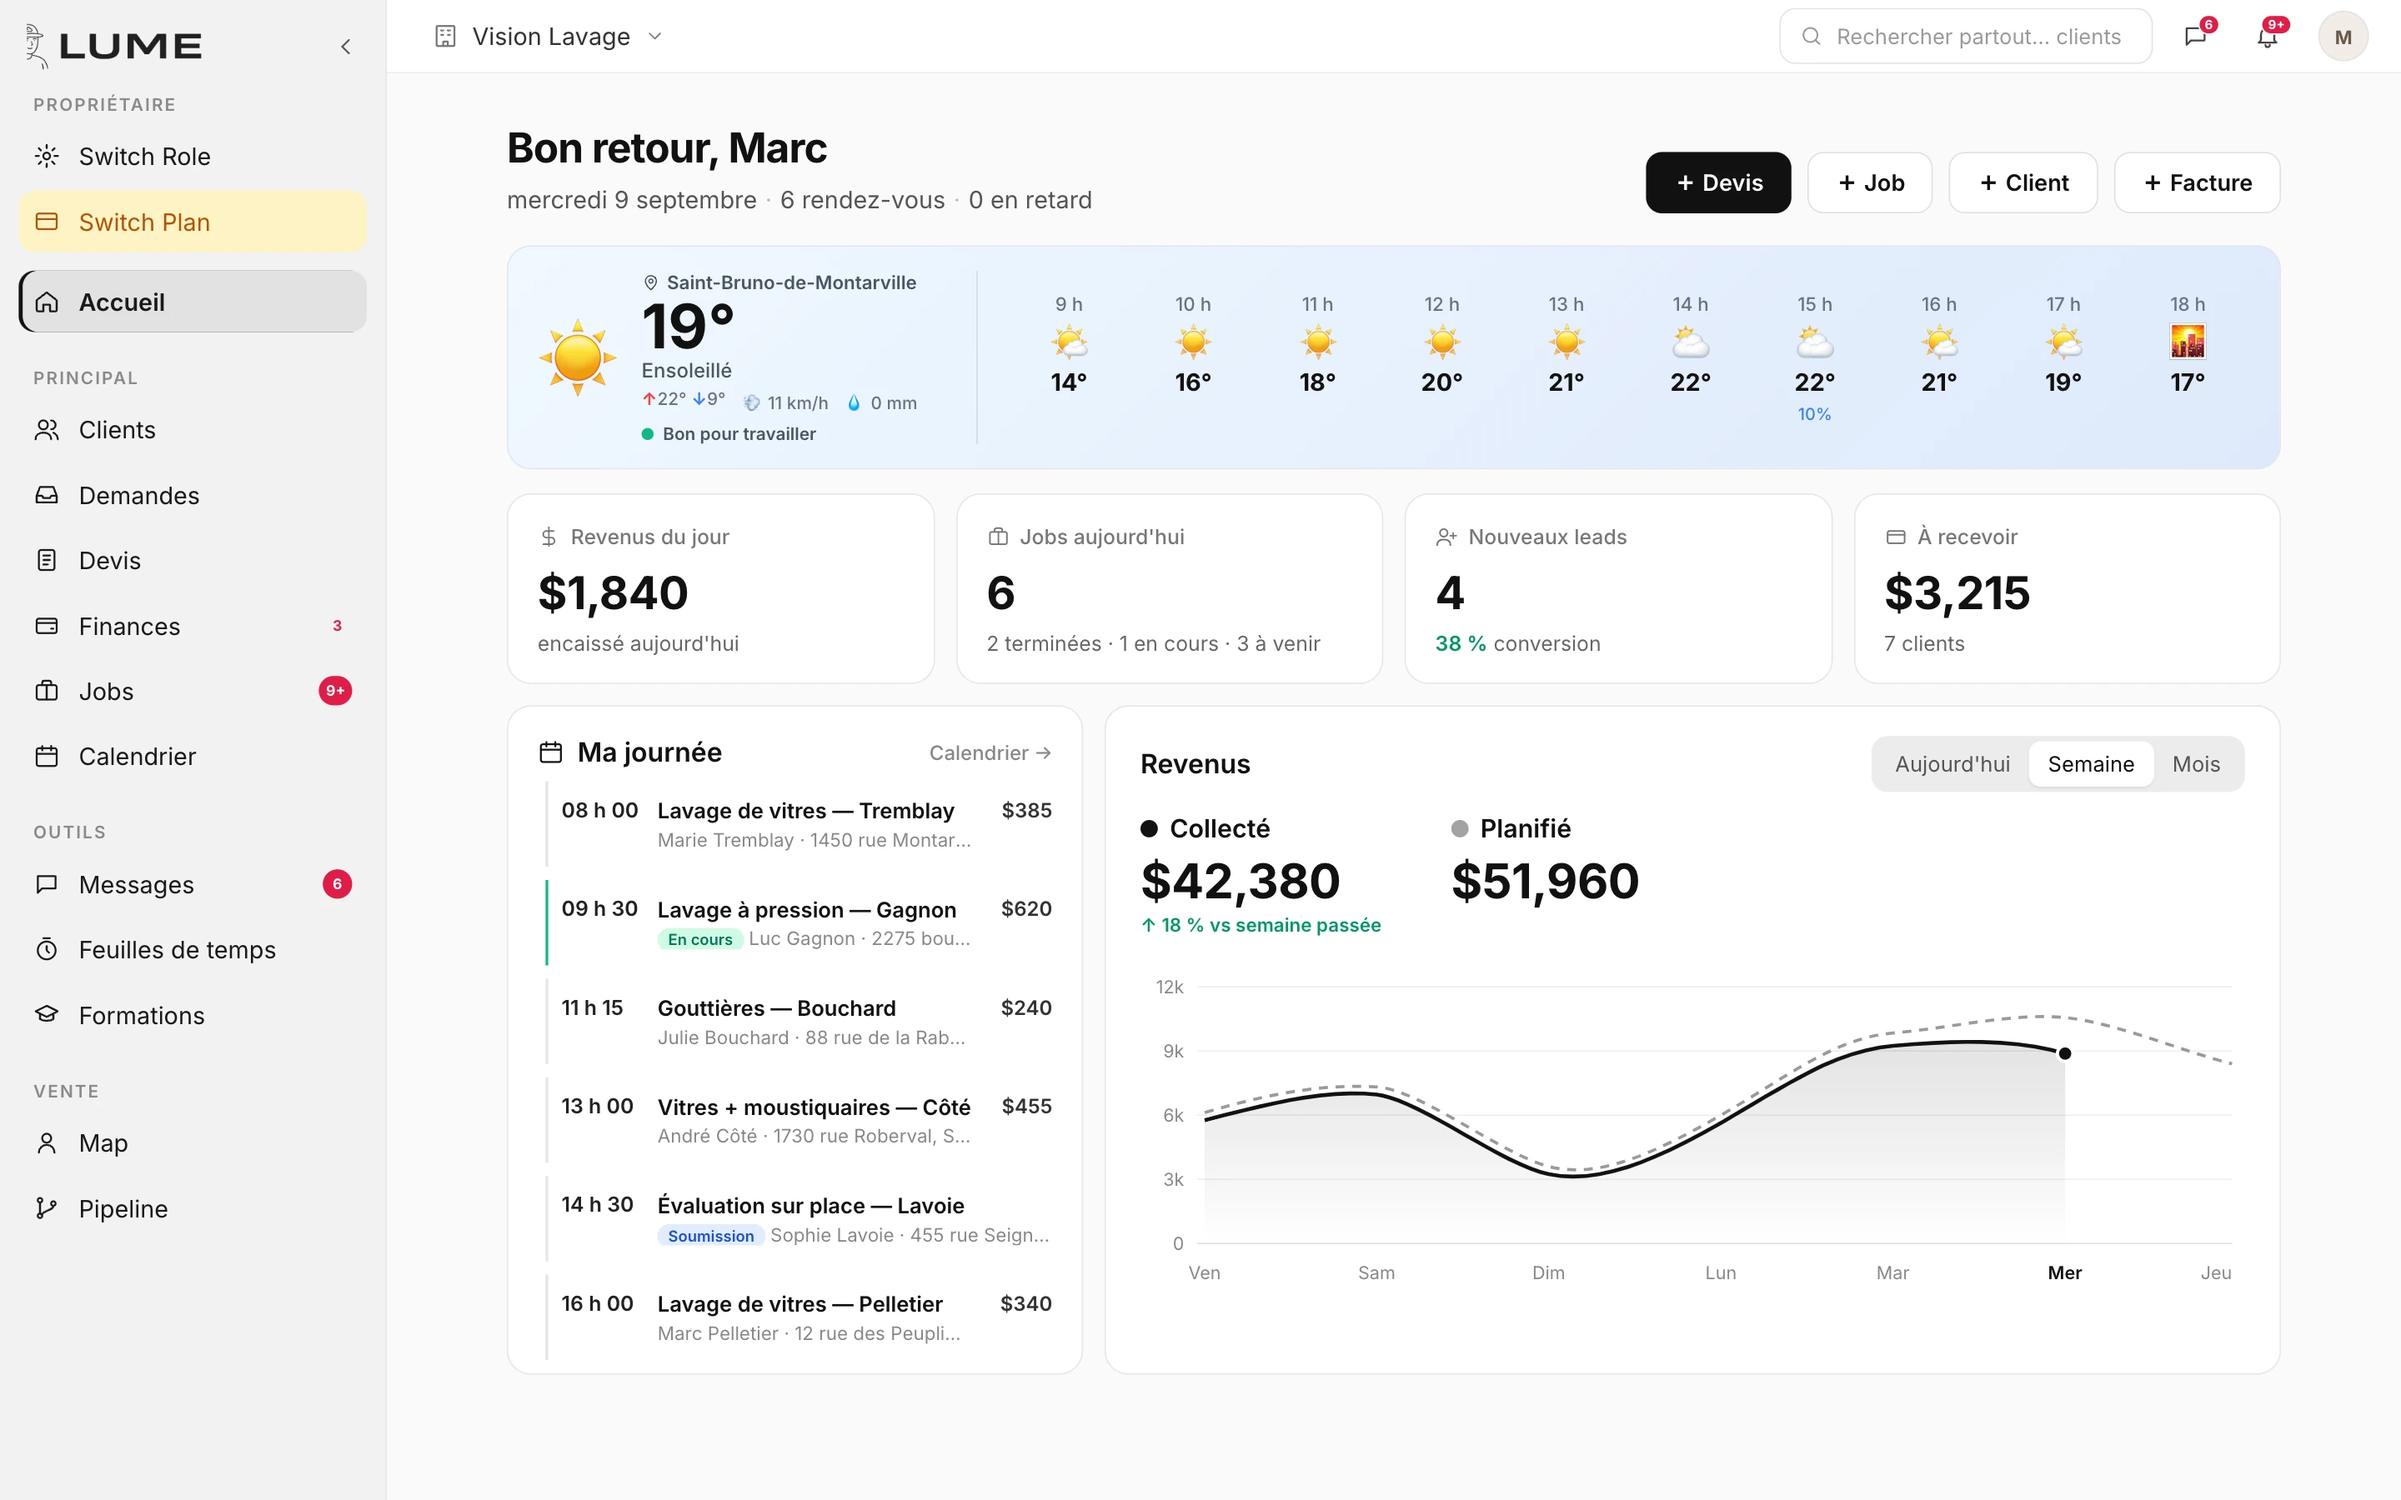
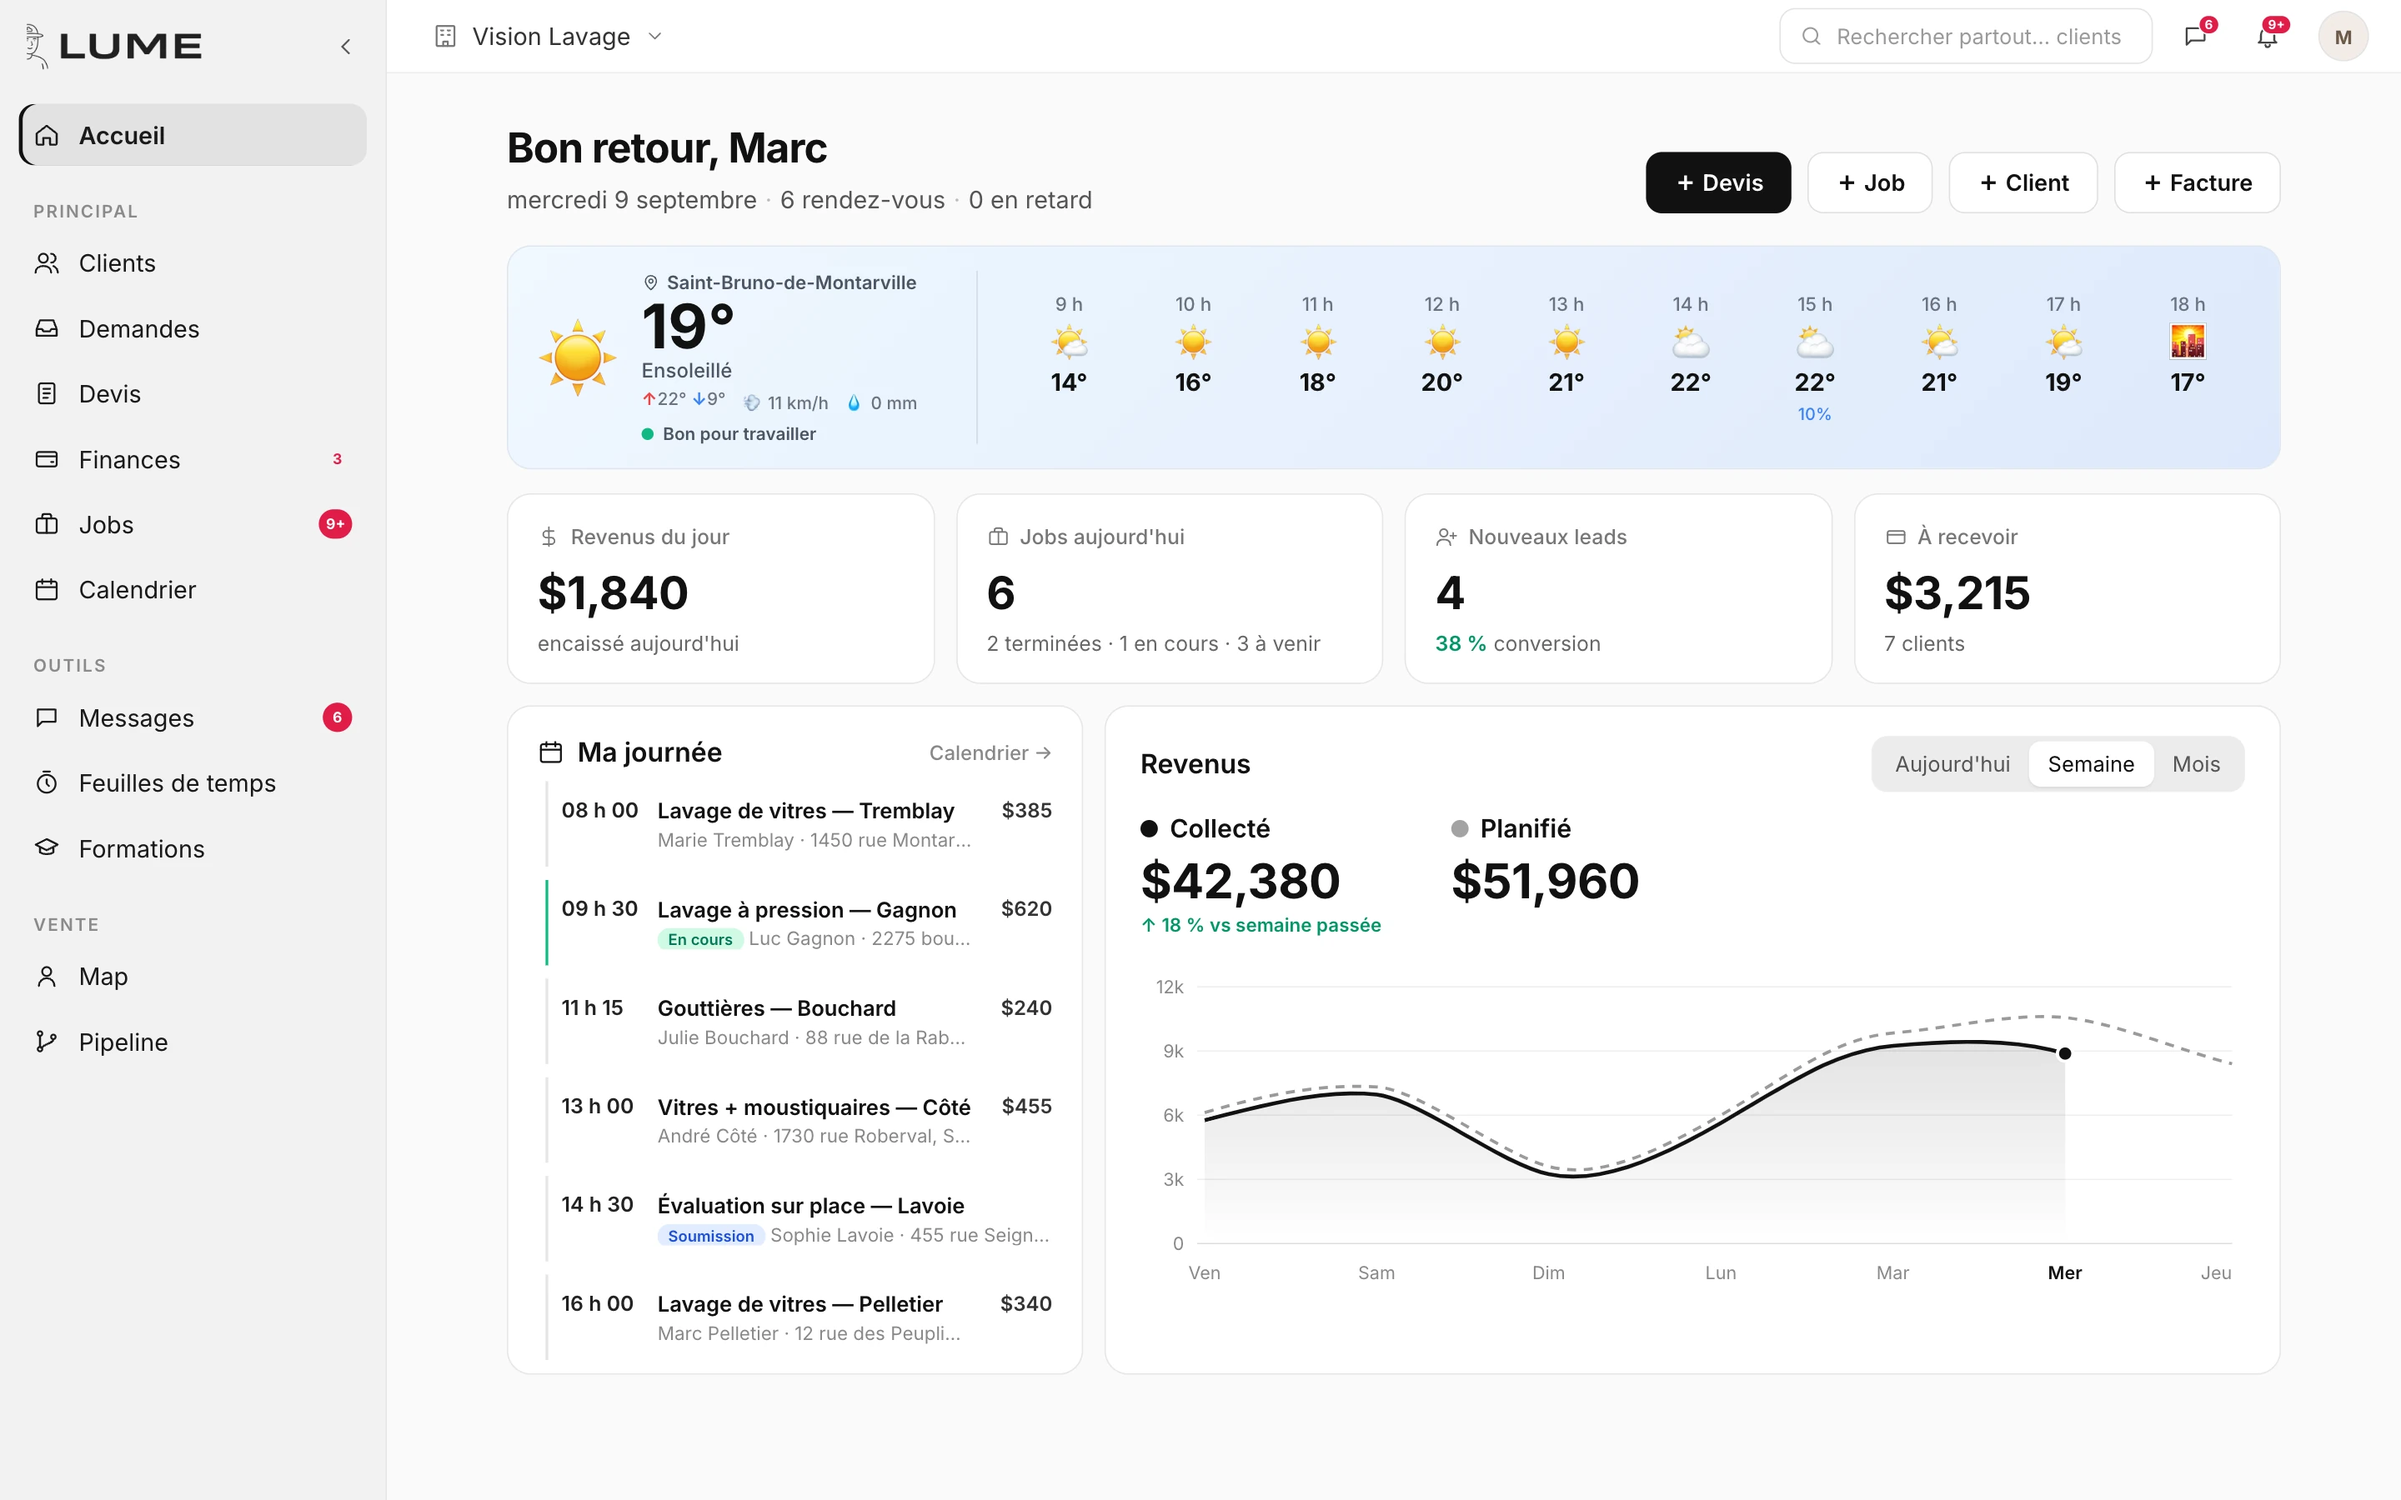
landing : aperçu Accueil sans la section Propriétaire (Switch Role / Switch Plan)

diff --git a/scripts/marketing/apercu-accueil.html b/scripts/marketing/apercu-accueil.html
@@ -110,10 +110,7 @@
     <img src="../../public/lume-logo-v2.png" style="height:34px;width:auto" alt="">
     <svg class="ic chev" viewBox="0 0 24 24"><path d="M15 6l-6 6 6 6"/></svg>
   </div>
-  <div class="sec first">PROPRIÉTAIRE</div>
-  <div class="nav"><svg class="ic" viewBox="0 0 24 24"><circle cx="12" cy="12" r="3"/><path d="M12 2v3M12 19v3M2 12h3M19 12h3M4.9 4.9l2.1 2.1M17 17l2.1 2.1M4.9 19.1L7 17M17 7l2.1-2.1"/></svg>Switch Role</div>
-  <div class="nav plan"><svg class="ic" viewBox="0 0 24 24"><rect x="3" y="5" width="18" height="14" rx="2"/><path d="M3 10h18"/></svg>Switch Plan</div>
-  <div class="nav active" style="margin-top:14px"><svg class="ic" viewBox="0 0 24 24"><path d="M3 11l9-7 9 7v9a1 1 0 01-1 1h-5v-6H9v6H4a1 1 0 01-1-1z"/></svg>Accueil</div>
+  <div class="nav active" style="margin-top:26px"><svg class="ic" viewBox="0 0 24 24"><path d="M3 11l9-7 9 7v9a1 1 0 01-1 1h-5v-6H9v6H4a1 1 0 01-1-1z"/></svg>Accueil</div>
   <div class="sec">PRINCIPAL</div>
   <div class="nav"><svg class="ic" viewBox="0 0 24 24"><circle cx="9" cy="8" r="4"/><path d="M2 21c0-4 3-6 7-6s7 2 7 6M16 4a4 4 0 010 8M22 21c0-3-2-5-4-6"/></svg>Clients</div>
   <div class="nav"><svg class="ic" viewBox="0 0 24 24"><path d="M3 13l3-8h12l3 8v6H3zM3 13h5l1 2h6l1-2h5"/></svg>Demandes</div>
